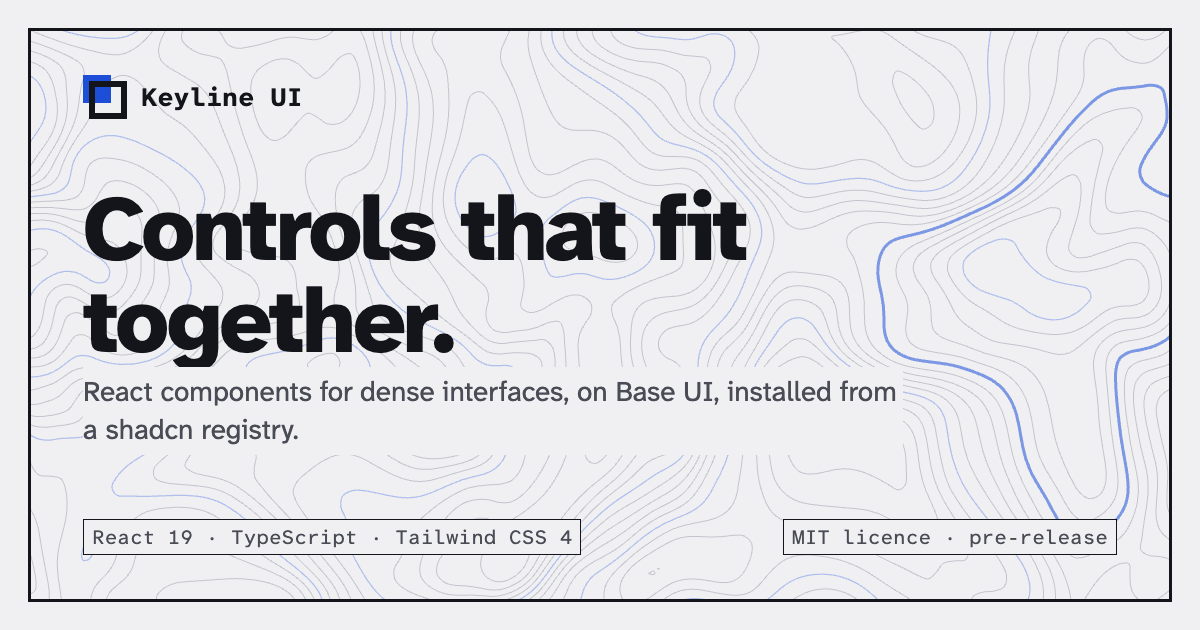
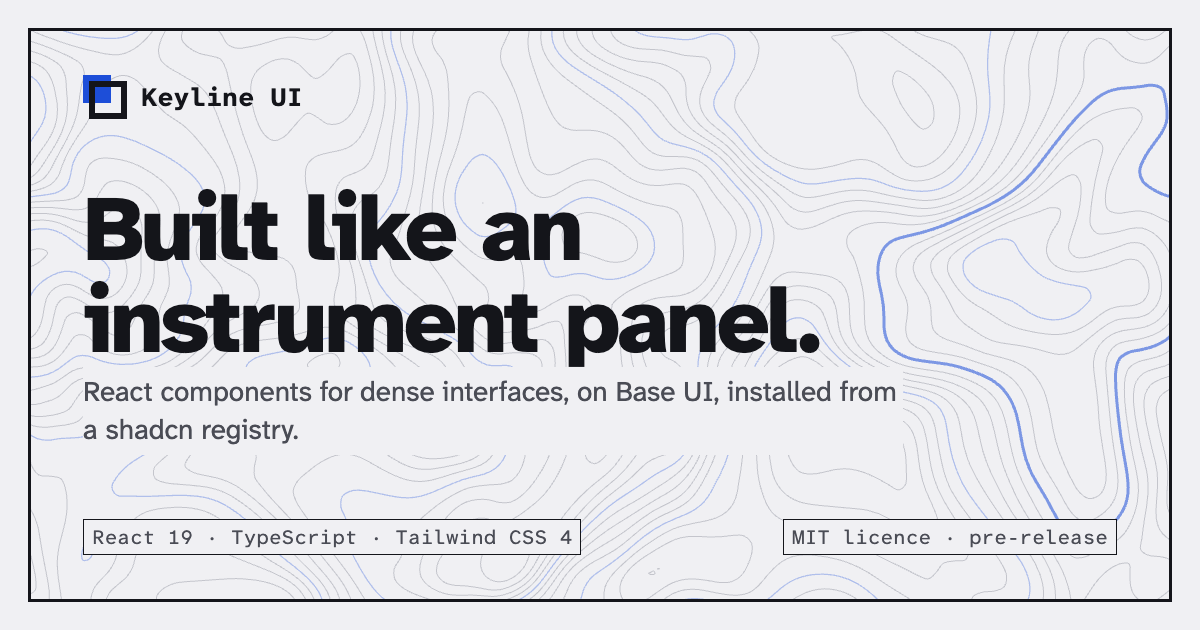
Site: home headline and legend in plain terms; Installation leads with requirements and three steps
Home: "Built like an instrument panel." with a legend that says what the frame, seam and cell rules mean for the
reader; the heading is sized to the room beside the controls on wide screens. The share image, its alt text and the
site check follow. Installation: requirements first, then the new project as three numbered steps with a pointer to
Theming and Composition. Reading pages: wider space after a code block or example, inline code names stay whole
above phone width, and a one-line text block wraps at its spaces like a command.

Changed region(s): [[0.0617, 0.4524, 0.6783, 0.6032], [0.0617, 0.3016, 0.6475, 0.4222]]

diff --git a/site/app/docs/installation/page.tsx b/site/app/docs/installation/page.tsx
@@ -38,10 +38,10 @@ const TOC: TocGroup[] = [
   {
     label: "Install",
     items: [
+      { id: "requirements", label: "Requirements" },
       { id: "new-project", label: "New project" },
       { id: "existing-project", label: "Existing project" },
       { id: "item-names", label: "Item names" },
-      { id: "requirements", label: "Requirements" },
     ],
   },
   {
@@ -67,27 +67,56 @@ export default function InstallationPage() {
     <DocPage name="Installation" toc={TOC}>
       <h1>Installation</h1>
       <p className="s-doc-lede">
-        Keyline is a shadcn registry. The shadcn CLI copies each component&apos;s source into your project, with the
-        components, styles and packages it needs, so the code is yours to read and change. Nothing to clone, build or
-        host: you map the <code>@keyline-ui</code> registry once, then add components by name.
+        Keyline is a shadcn registry: the shadcn CLI copies each component&apos;s source, styles and packages into your
+        project, so the code is yours to change. Map the <code>@keyline-ui</code> registry once, then add components by
+        name.
       </p>
 
+      <h2 id="requirements">Requirements</h2>
+      <ul>
+        <li>React 19 and TypeScript.</li>
+        <li>
+          Tailwind CSS 4. Keyline&apos;s theme uses <code>@theme inline</code>, which Tailwind 3 does not have.
+        </li>
+        <li>
+          A shadcn project: a <code>components.json</code> with any style and base, and the <code>cn()</code> helper at
+          its <code>utils</code> alias. <code>shadcn init</code> sets both up.
+        </li>
+        <li>
+          Network access to npm and to this site while you run the CLI. Nothing is fetched from this site at runtime.
+        </li>
+      </ul>
+
       <h2 id="new-project">New project</h2>
-      <p>Create a Next.js or Vite app set up for shadcn (pick either):</p>
-      <CodeBlock code={NEXT} lang="bash" copyLabel="Next.js setup command" />
-      <CodeBlock code={VITE} lang="bash" copyLabel="Vite setup command" />
+      <p>Three steps take an empty folder to a page with a Keyline button on it.</p>
+
+      <h3 id="create-app">1. Create the app</h3>
       <p>
-        In the new app&apos;s folder, map the Keyline registry. This writes one line to <code>components.json</code>:
+        Run <strong>one</strong> of these. Each creates an app set up for shadcn. For Next.js:
+      </p>
+      <CodeBlock code={NEXT} lang="bash" copyLabel="Next.js setup command" />
+      <p>Or, for Vite:</p>
+      <CodeBlock code={VITE} lang="bash" copyLabel="Vite setup command" />
+
+      <h3 id="map-registry">2. Map the Keyline registry</h3>
+      <p>
+        In the new app&apos;s folder, run this once. It writes one line to <code>components.json</code>:
       </p>
       <CodeBlock code={ADD} lang="bash" copyLabel="registry command" />
-      <p>Add a component and use it:</p>
+
+      <h3 id="add-component">3. Add a component and use it</h3>
       <CodeBlock code={BUTTON} lang="bash" copyLabel="install command" />
       <CodeBlock code={USE} lang="tsx" copyLabel="usage" />
+      <p>
+        Every component page shows its own add command. To set your colours and fonts, read{" "}
+        <Link href="/docs/theming">Theming</Link>; to see how components fit together, read{" "}
+        <Link href="/docs/composition">Composition</Link>.
+      </p>
 
       <h2 id="existing-project">Existing shadcn project</h2>
       <p>
-        In the folder that holds <code>components.json</code>, map the registry once, then add what you need. Each
-        component page shows its command.
+        In the folder that holds <code>components.json</code>, run these in order. The first maps the registry and is
+        needed only once; the second adds components. Each component page shows its own add command.
       </p>
       <CodeBlock code={ADD} lang="bash" copyLabel="registry command" />
       <CodeBlock code={MANY} lang="bash" copyLabel="install command" />
@@ -104,22 +133,6 @@ export default function InstallationPage() {
         and <code>nav</code>, and <code>alert-dialog</code> installs <code>dialog</code>, which exports{" "}
         <code>AlertDialog</code>.
       </p>
-
-      <h2 id="requirements">Requirements</h2>
-      <ul>
-        <li>React 19 and TypeScript.</li>
-        <li>
-          Tailwind CSS 4. Keyline&apos;s theme uses <code>@theme inline</code>, which Tailwind 3 does not have.
-        </li>
-        <li>
-          A shadcn project: a <code>components.json</code> with any style and base, and the <code>cn()</code> helper at
-          its
-          <code> utils</code> alias. <code>shadcn init</code> sets both up.
-        </li>
-        <li>
-          Network access to npm and to this site while you run the CLI. Nothing is fetched from this site at runtime.
-        </li>
-      </ul>
 
       <h2 id="what-installs">What installing does</h2>
       <ul>
@@ -145,10 +158,9 @@ export default function InstallationPage() {
       <h2 id="your-app">Your app and Keyline</h2>
       <p>
         Keyline&apos;s CSS only styles Keyline&apos;s own names (<code>--kl-*</code> tokens, <code>kl-</code> classes,{" "}
-        <code>data-kl-*</code>
-        attributes). Your shadcn components, <code>body</code>, fonts and tokens look the same as before, and
-        Keyline&apos;s <code>Button</code> and shadcn&apos;s <code>Button</code> can sit on the same page. Dark mode
-        follows a <code>.dark</code> class on an ancestor, as shadcn&apos;s own setups already set it.
+        <code>data-kl-*</code> attributes). Your shadcn components, <code>body</code>, fonts and tokens look the same as
+        before, and Keyline&apos;s <code>Button</code> and shadcn&apos;s <code>Button</code> can sit on the same page.
+        Dark mode follows a <code>.dark</code> class on an ancestor, as shadcn&apos;s own setups already set it.
       </p>
       <p>To give the whole app Keyline&apos;s look, stock shadcn components included, add the opt-in theme:</p>
       <CodeBlock code={WHOLE_APP} lang="bash" copyLabel="whole-app theme command" />
@@ -163,9 +175,8 @@ export default function InstallationPage() {
       <h2 id="updating">Updating</h2>
       <p>
         Installed components are your code: nothing changes until you add them again. To take a newer version, re-add it
-        with
-        <code> --overwrite</code>. It replaces the component&apos;s files, so commit or keep your own edits first and
-        compare afterwards.
+        with <code>--overwrite</code>. It replaces the component&apos;s files, so commit or keep your own edits first
+        and compare afterwards.
       </p>
       <CodeBlock code={UPDATE} lang="bash" copyLabel="update command" />
       <p>
@@ -179,8 +190,7 @@ export default function InstallationPage() {
       <p>
         Delete the component&apos;s files from <code>components/keyline/</code>. A component adds no CSS, so its files
         are all there is; for a block, also delete the rules it added to your stylesheet. Remove any packages you no
-        longer use. For configuration, theming and the composition rules, start with{" "}
-        <Link href="/docs/theming">Theming</Link> and <Link href="/docs/composition">Composition</Link>.
+        longer use.
       </p>
 
       <h2 id="troubleshooting">Troubleshooting</h2>

diff --git a/site/components/code-block.tsx b/site/components/code-block.tsx
@@ -5,8 +5,8 @@ import { OriginFill } from "./origin-fill";
 import { ORIGIN_SENTINEL, ORIGIN_SLOT } from "@site/lib/registry";
 
 /**
- * Highlighted on the server; the Copy button copies the exact source string. A one-line shell command wraps at its spaces
- * (a hanging indent under the prompt) rather than scrolling under Copy. Code that scrolls sideways keeps its lines;
+ * Highlighted on the server; the Copy button copies the exact source string. A one-line shell command or message wraps at
+ * its spaces (a command with a hanging indent under the prompt) rather than scrolling under Copy. Code that scrolls sideways keeps its lines;
  * its scrollbar is inset from the frame's edges, so it reads as a scrollbar, not a second border. `tall` caps the height (it scrolls).
  * Code that names this site through ORIGIN_SLOT gets the page's origin filled in by the browser.
  */
@@ -28,9 +28,11 @@ export async function CodeBlock({
   const single = !code.trimEnd().includes("\n");
   return (
     <div
-      className="s-cb group/code relative mt-4 min-w-0 border-2 border-kl-line-soft bg-kl-cell [--s-cb-top:initial] in-[.s-demo-code]:mt-0 in-[.s-demo-code]:border-0 data-[single]:has-[[data-has-overflow-x]]:[--s-cb-top:calc(50%-6px)] [&_.shiki]:text-(--shiki-light) in-[.dark]:[&_.shiki]:text-(--shiki-dark) [&_.shiki_span]:text-(--shiki-light) in-[.dark]:[&_.shiki_span]:text-(--shiki-dark) not-data-[tall]:[&_[data-slot=scroll-area-scrollbar][data-orientation=horizontal]]:mx-[18px] not-data-[tall]:[&_[data-slot=scroll-area-scrollbar][data-orientation=horizontal]]:mb-1.5 max-[721px]:not-data-[tall]:[&_[data-slot=scroll-area-scrollbar][data-orientation=horizontal]]:mx-3.5 not-data-[tall]:has-[[data-has-overflow-x]]:[&_pre]:pb-2 data-[cmd]:[&_pre]:ps-[calc(18px+2ch)] data-[cmd]:[&_pre]:-indent-[2ch] data-[cmd]:[&_pre]:[overflow-wrap:break-word] data-[cmd]:[&_pre]:whitespace-pre-wrap max-[721px]:data-[cmd]:[&_pre]:ps-[calc(0.875rem+2ch)] [.s-cb+&]:mt-3 in-[.s-demo-code]:[.s-cb+&]:mt-0 in-[.s-demo-code]:[.s-cb+&]:border-t-(length:--kl-k1) in-[.s-demo-code]:[.s-cb+&]:border-t-kl-line-soft"
+      className="s-cb group/code relative mt-4 min-w-0 border-2 border-kl-line-soft bg-kl-cell [--s-cb-top:initial] in-[.s-demo-code]:mt-0 in-[.s-demo-code]:border-0 data-[single]:has-[[data-has-overflow-x]]:[--s-cb-top:calc(50%-6px)] [&_.shiki]:text-(--shiki-light) in-[.dark]:[&_.shiki]:text-(--shiki-dark) [&_.shiki_span]:text-(--shiki-light) in-[.dark]:[&_.shiki_span]:text-(--shiki-dark) not-data-[tall]:[&_[data-slot=scroll-area-scrollbar][data-orientation=horizontal]]:mx-[18px] not-data-[tall]:[&_[data-slot=scroll-area-scrollbar][data-orientation=horizontal]]:mb-1.5 max-[721px]:not-data-[tall]:[&_[data-slot=scroll-area-scrollbar][data-orientation=horizontal]]:mx-3.5 not-data-[tall]:has-[[data-has-overflow-x]]:[&_pre]:pb-2 data-[cmd]:[&_pre]:ps-[calc(18px+2ch)] data-[cmd]:[&_pre]:-indent-[2ch] data-[wrap]:[&_pre]:[overflow-wrap:break-word] data-[wrap]:[&_pre]:whitespace-pre-wrap max-[721px]:data-[cmd]:[&_pre]:ps-[calc(0.875rem+2ch)] [.s-cb+&]:mt-3 in-[.s-demo-code]:[.s-cb+&]:mt-0 in-[.s-demo-code]:[.s-cb+&]:border-t-(length:--kl-k1) in-[.s-demo-code]:[.s-cb+&]:border-t-kl-line-soft [h3+&]:mt-2.5"
       data-single={single ? "" : undefined}
       data-cmd={single && lang === "bash" ? "" : undefined}
+      // a one-line command or message wraps at its spaces rather than running under Copy
+      data-wrap={single && (lang === "bash" || lang === "text") ? "" : undefined}
       data-tall={tall ? "" : undefined}
     >
       {filled ? (

diff --git a/site/app/site.css b/site/app/site.css
@@ -224,6 +224,17 @@
     padding: var(--s-title-top) var(--s-title-x) 0;
     font-size: var(--s-title-fs);
   }
+  /* where the heading shares its line with the controls, it is sized to the room left beside them (the heading is
+     about 13 times its size wide; the controls, the pause and the insets take about 445px), and that room is held
+     clear, so a wider rendering wraps under the heading's first line instead of running under the controls */
+  @media (min-width: 1024px) {
+    .s-home .s-frame {
+      --s-title-fs: clamp(40px, 7.5vw - 36px, 86px);
+    }
+    .s-home .s-frame > .s-title {
+      padding-inline-end: calc(var(--s-title-x) + 300px);
+    }
+  }
   .s-home .s-frame > .s-map {
     grid-row: 2;
     grid-column: 1;
@@ -930,6 +941,12 @@
     font-size: 16px;
     line-height: 1.65;
   }
+  /* text that follows a code block, a table or an example starts a new beat: the block belongs to the sentence that
+     introduced it, so the space after it is wider than the space before (a note on the block itself, .s-small,
+     stays attached) */
+  .s-read > :not(p, ul, h1, h2, h3, footer) + :is(p:not(.s-small), ul) {
+    margin-top: 24px;
+  }
   .s-read > ul > li {
     position: relative;
     padding-inline-start: 22px;
@@ -958,6 +975,13 @@
     padding: 1px 4px;
     background: var(--kl-cell);
     color: var(--kl-ink);
+  }
+  /* a name in running text stays whole (no "@keyline-" / "ui" split at its hyphen) wherever the measure has room
+     for the longest one; on a phone it may still break, so it never pushes the page sideways */
+  @media (min-width: 721px) {
+    .s-read > :is(p, ul > li) > code {
+      white-space: nowrap;
+    }
   }
   .s-read a:where(:not(.s-demo-stage *)) {
     color: var(--kl-cobalt-text);

diff --git a/site/components/home-specimen.tsx b/site/components/home-specimen.tsx
@@ -27,25 +27,25 @@ export function HomeSpecimen({ identity, actions }: { identity: React.ReactNode;
         <div className="s-tb-id" ref={idRef}>
           {identity}
         </div>
-        <ol className="s-legend" aria-label="How the parts join">
+        <ol className="s-legend" aria-label="What that means">
           <li>
             <span className="s-legend-n">1</span>
             <span className="s-legend-t">
-              <b>Frame.</b> The cut. One 3px edge around the region, like a printer&rsquo;s keyline: it holds every part
-              in register.
+              <b>Related controls touch.</b> A field and its unit, a button and its count: one frame, one shared line.
+              Unrelated groups sit a full gap apart.
             </span>
           </li>
           <li>
             <span className="s-legend-n">2</span>
             <span className="s-legend-t">
-              <b>Seam.</b> The fold. One 1px line where two parts meet, drawn by only one of them.
+              <b>Line weight shows the role.</b> 3px around a region, 2px around a control, 1px between cells.
             </span>
           </li>
           <li>
             <span className="s-legend-n">3</span>
             <span className="s-legend-t">
-              <b>Cell.</b> The keypoint. State lives in a cell; when the width runs out, a toolbar&rsquo;s filter flows
-              into More and stays checked.
+              <b>State stays in place.</b> A selection, an error or a finished task fills its own cell. Nothing around
+              it moves.
             </span>
           </li>
         </ol>

diff --git a/site/app/page.tsx b/site/app/page.tsx
@@ -28,8 +28,8 @@ export default function Home() {
       <div className="s-frame">
         <Land />
         {/* data-ghost: the heading's cobalt plate, printed under it and stepped into register (site.css: Register) */}
-        <h1 className="s-title" data-ghost="Controls that fit together.">
-          Controls that fit together.
+        <h1 className="s-title" data-ghost="Built like an instrument panel.">
+          Built like an instrument panel.
         </h1>
         <SiteControls className="s-site-ctl" />
         <HomeSpecimen

diff --git a/site/lib/seo.ts b/site/lib/seo.ts
@@ -8,7 +8,7 @@ const SHARE_IMAGE = {
   url: "/og.png",
   width: 1200,
   height: 630,
-  alt: "Keyline UI. Controls that fit together. React components for dense interfaces, on Base UI, installed from a shadcn registry.",
+  alt: "Keyline UI. Built like an instrument panel. React components for dense interfaces, on Base UI, installed from a shadcn registry.",
 };
 
 /** The canonical origin: package.json "homepage", the same origin the install commands and the registry use. A build
